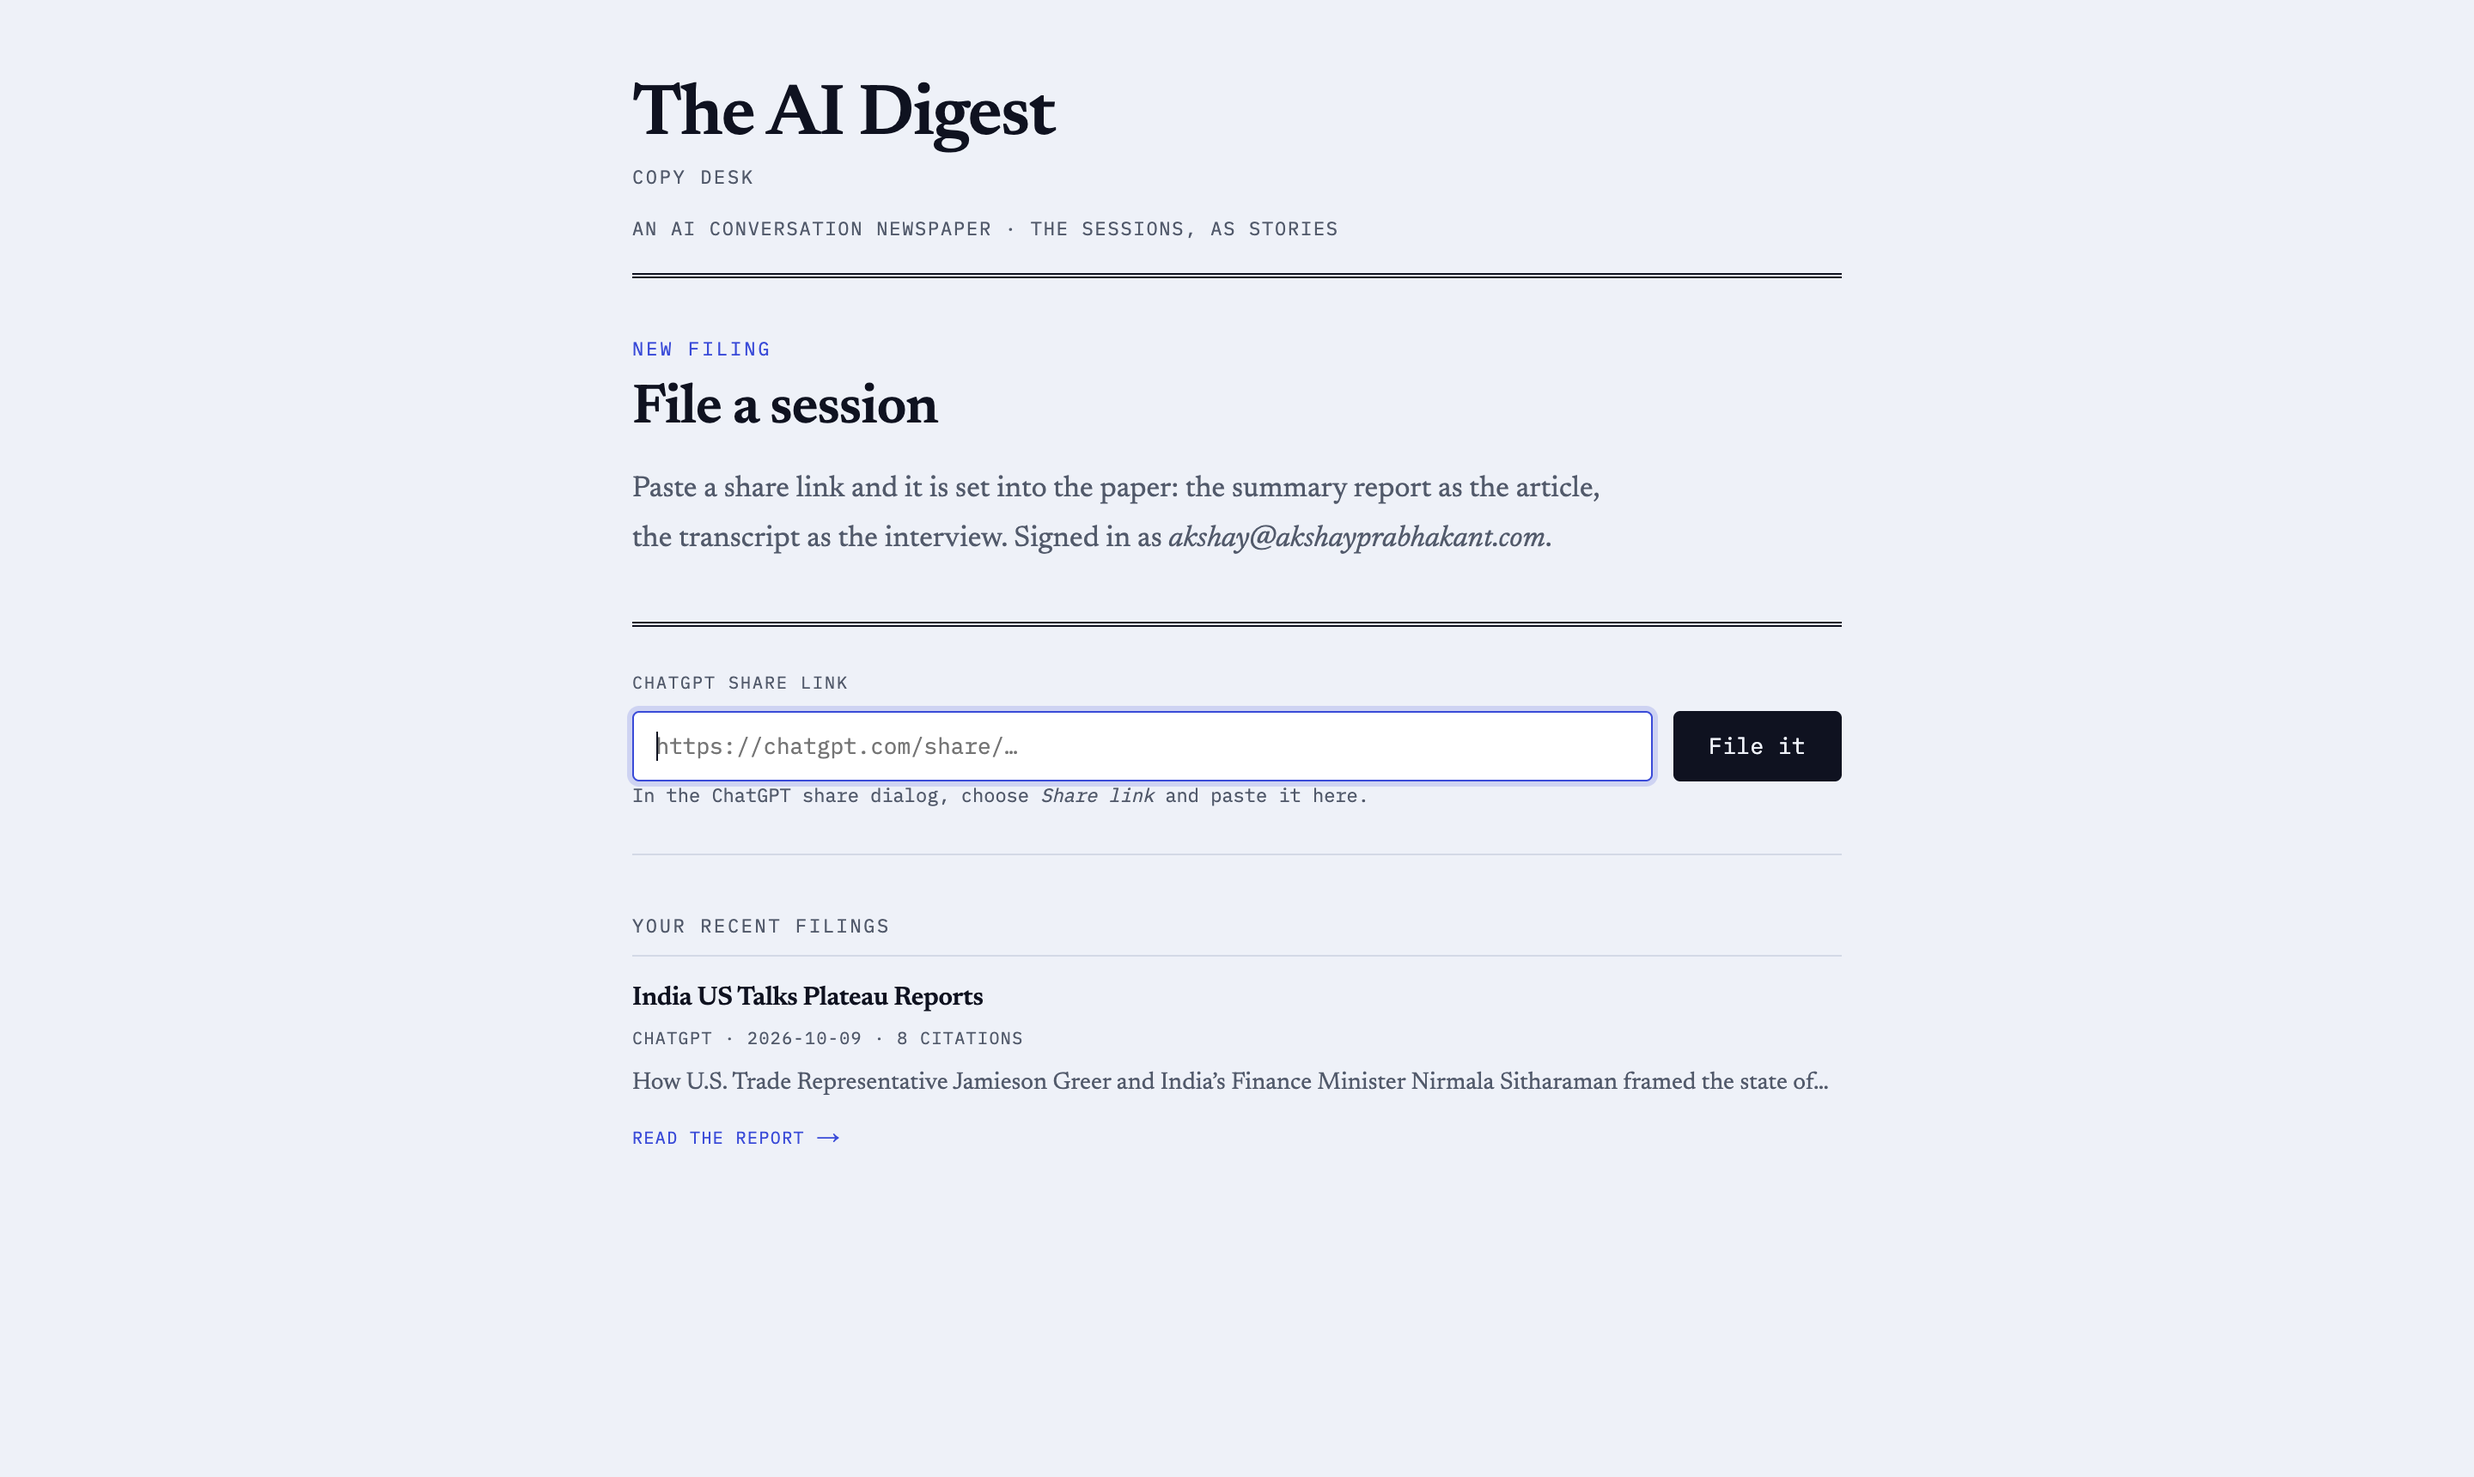
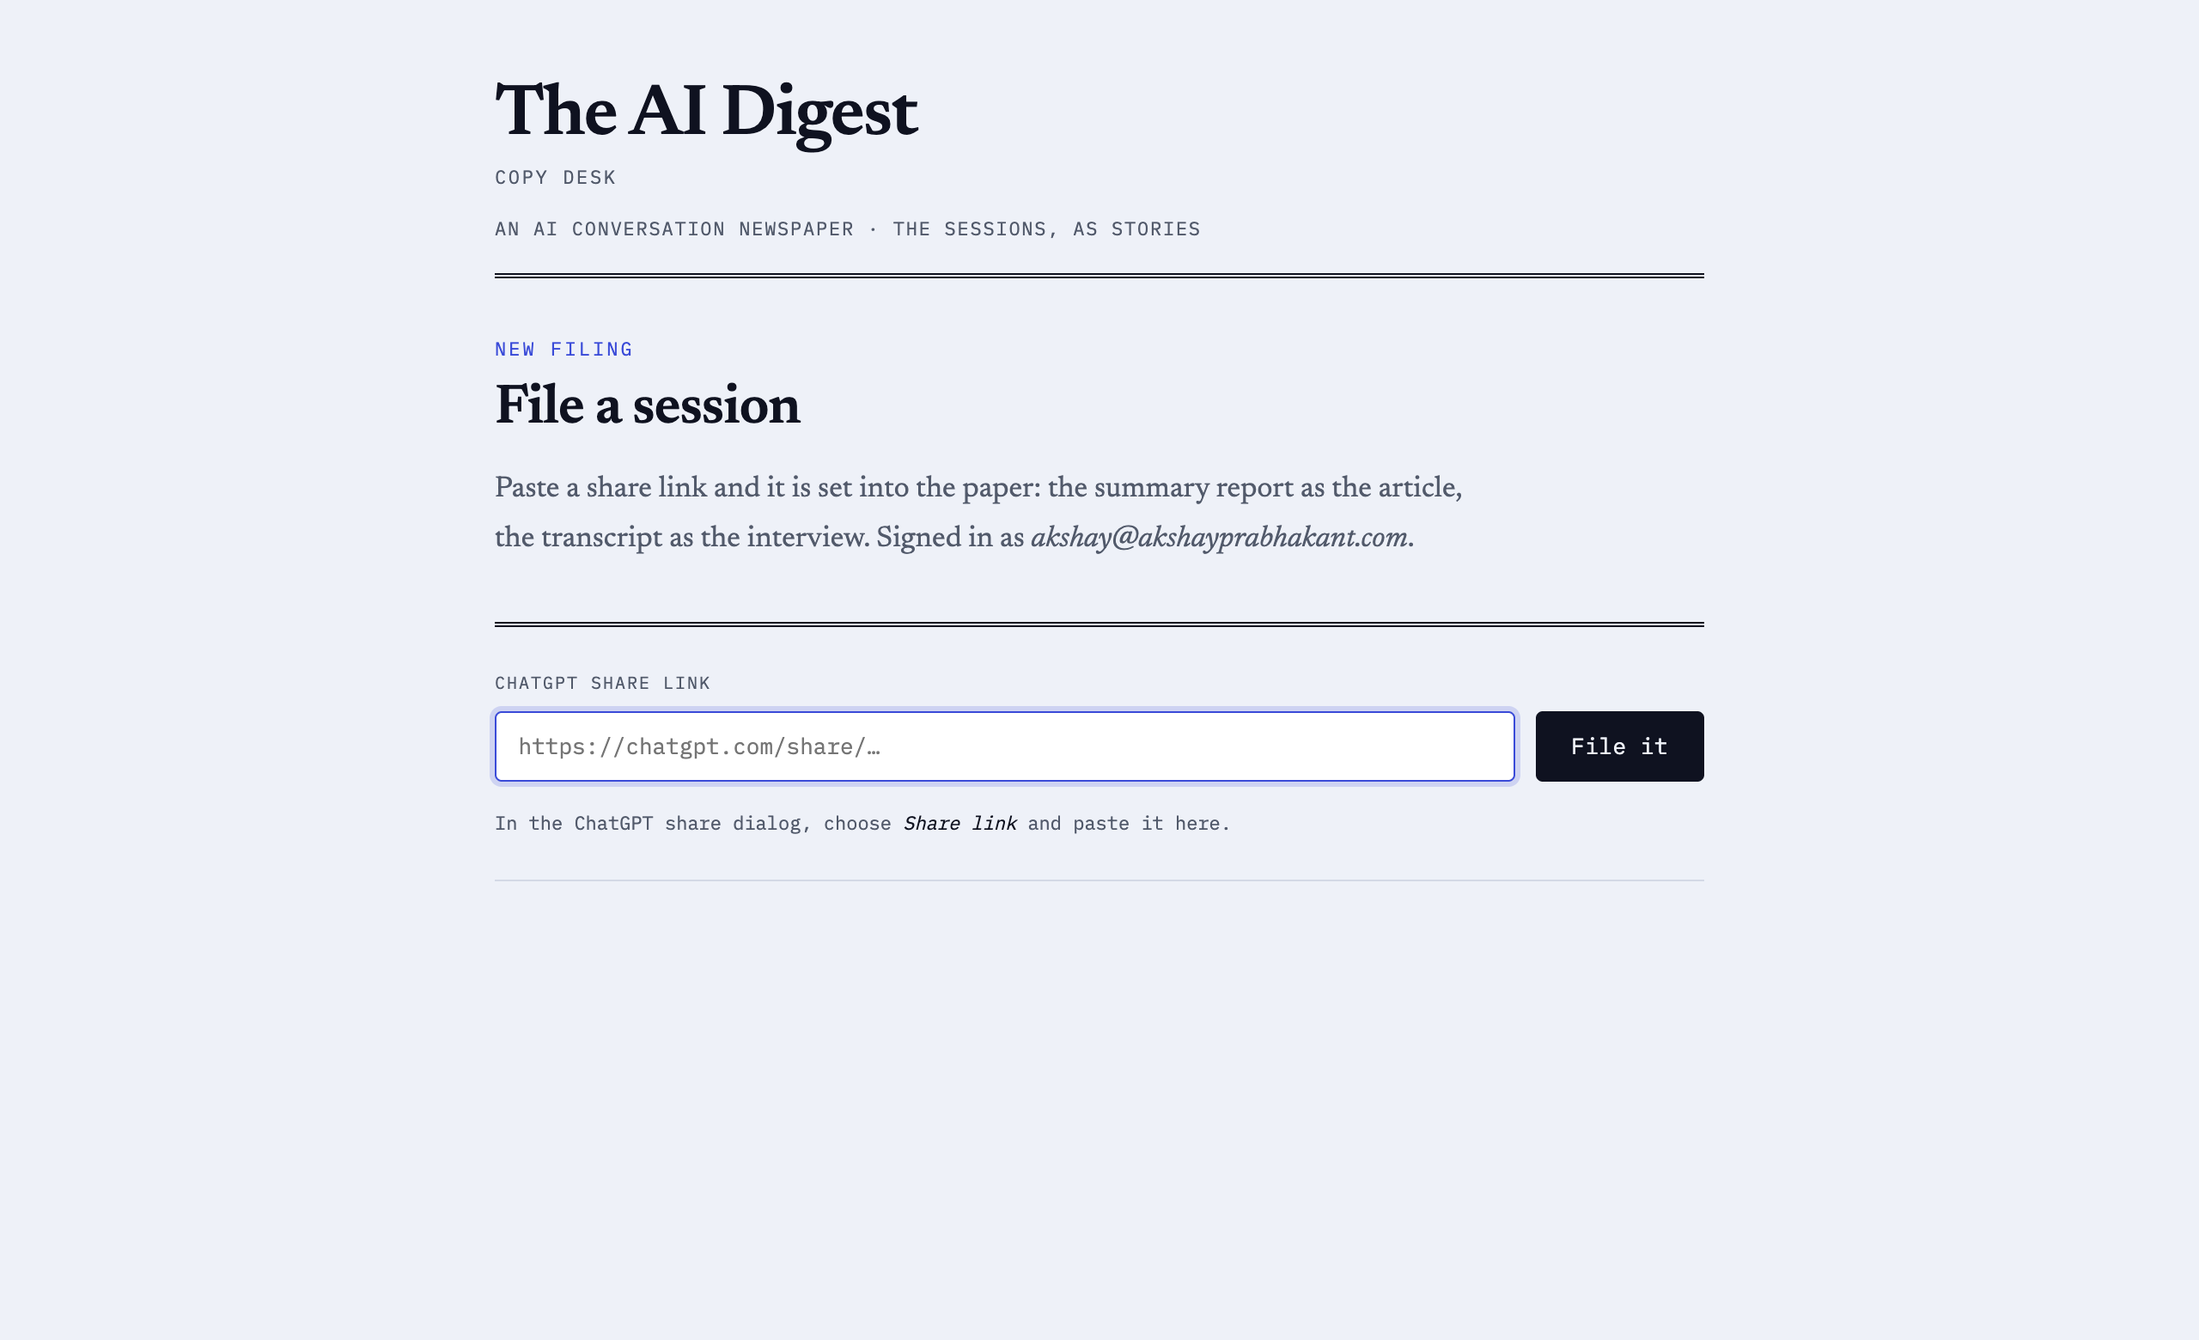
Give the filing hint room, and make the desk one job again
Two things the desk got wrong, both visible on render rather than in code.

The helper hint sat flush against the input's bottom border. The cause was a
class mismatch that a code read would not have flagged as a bug: the hint and
the result message are the same slot, but the hint rendered as `.fine` (no top
margin) while a result rendered as `.file-msg` (margin-top). So the text was
welded to the border, and the spacing jumped the instant a filing succeeded.
Both states now render one element with one class, so the gap is 16px before
and after — asserted in the browser, not eyeballed.

The "your recent filings" list is gone. It turned a single-purpose page into a
dashboard: the story it listed is already in the edition, one click away on the
front page, which `archive:updated` refreshes. CopyDesk loses its filings state,
its listFilings call and its StoryLink import; the `.desk-sub` and
`.desk-filings` CSS goes with them, and `listFilings` is deleted from the API
client so nothing is left half-wired.

Note: `GET /api/filings` and `ConversationRepository.list_recent` are now
unused. Kept deliberately rather than deleted alongside a view change — they
are tested across all three repositories and are what would back a "your
filings" view if it returns. Say the word and they go; nothing else calls them.

Verified in the browser: the form files a real link end to end, the success
message lands in the same slot at the same 16px gap, and nothing follows the
[…]

Changed region(s): [[0.2188, 0.4615, 0.7812, 0.7385], [0.2188, 0.0308, 0.75, 0.4308]]

diff --git a/frontend/app/components/CopyDesk.tsx b/frontend/app/components/CopyDesk.tsx
@@ -1,11 +1,9 @@
 'use client';
 
-import { useCallback, useEffect, useState } from 'react';
+import { useEffect, useState } from 'react';
 import { useRouter } from 'next/navigation';
-import { ingestSession, isSignInRequired, listFilings, whoami } from '@/lib/api';
+import { ingestSession, isSignInRequired, whoami } from '@/lib/api';
 import { AFTER_SIGN_IN } from '@/lib/nav';
-import type { Session } from '@/types';
-import StoryLink from './StoryLink';
 
 /**
  * The copy desk: where a share link becomes a story in the paper.
@@ -15,25 +13,19 @@ import StoryLink from './StoryLink';
  * page is public while this is not.
  *
  * The page enforces its own gate rather than relying on the router, because
- * the gate is a *server* fact: `GET /api/filings` answers 401 to anyone without
+ * the gate is a *server* fact: `POST /api/ingest` answers 401 to anyone without
  * an identity. Bouncing to the sign-in screen (with `next` pointing back here)
  * is the friendly rendering of that same fact, not a substitute for it.
+ *
+ * One job, one page: the form. There was briefly a "your recent filings" list
+ * underneath, which made a single-purpose page into a dashboard — the filed
+ * story is already in the edition, one click away on the front page, and
+ * `archive:updated` refreshes it.
  */
 export default function CopyDesk() {
   const router = useRouter();
   const [email, setEmail] = useState<string | null>(null);
   const [checking, setChecking] = useState(true);
-  const [filings, setFilings] = useState<Session[]>([]);
-
-  const loadFilings = useCallback(async () => {
-    try {
-      setFilings(await listFilings());
-    } catch {
-      // A failed filings read must not hide the form — filing is the point of
-      // the page, and the form reports its own errors.
-      setFilings([]);
-    }
-  }, []);
 
   useEffect(() => {
     let cancelled = false;
@@ -46,7 +38,6 @@ export default function CopyDesk() {
         }
         setEmail(value);
         setChecking(false);
-        void loadFilings();
       })
       .catch(() => {
         if (!cancelled) {
@@ -56,7 +47,7 @@ export default function CopyDesk() {
     return () => {
       cancelled = true;
     };
-  }, [router, loadFilings]);
+  }, [router]);
 
   if (checking) return <p className="fine">Opening the copy desk…</p>;
 
@@ -73,26 +64,13 @@ export default function CopyDesk() {
         </p>
       </section>
 
-      <FileSession onFiled={loadFilings} />
-
-      {filings.length > 0 ? (
-        <section className="desk-filings">
-          <h2 className="desk-sub">Your recent filings</h2>
-          <ul>
-            {filings.map((session) => (
-              <li key={session.id}>
-                <StoryLink session={session} variant="flow" />
-              </li>
-            ))}
-          </ul>
-        </section>
-      ) : null}
+      <FileSession />
     </div>
   );
 }
 
 /** The filing form itself: one field, one button, one honest status line. */
-function FileSession({ onFiled }: { onFiled: () => void }) {
+function FileSession() {
   const [url, setUrl] = useState('');
   const [busy, setBusy] = useState(false);
   const [note, setNote] = useState<{ text: string; error: boolean } | null>(null);
@@ -108,7 +86,8 @@ function FileSession({ onFiled }: { onFiled: () => void }) {
         error: false,
       });
       setUrl('');
-      onFiled();
+      // Tells the front page (another tab included) to re-read the edition.
+      window.dispatchEvent(new Event('archive:updated'));
     } catch (error) {
       if (isSignInRequired(error)) {
         // The session expired between opening the desk and filing. Access
@@ -126,6 +105,10 @@ function FileSession({ onFiled }: { onFiled: () => void }) {
     }
   }
 
+  // Both states render the SAME element with the same class. They used to
+  // differ — the hint took `.fine` (no top margin) and the result took
+  // `.file-msg` — which both left the hint flush against the input's bottom
+  // border and made the spacing jump the moment you filed something.
   return (
     <form className="file-form" onSubmit={submit}>
       <label htmlFor="share-url">ChatGPT share link</label>
@@ -143,13 +126,15 @@ function FileSession({ onFiled }: { onFiled: () => void }) {
           {busy ? 'Filing…' : 'File it'}
         </button>
       </div>
-      {note ? (
-        <p className={note.error ? 'file-msg error' : 'file-msg'}>{note.text}</p>
-      ) : (
-        <p className="fine">
-          In the ChatGPT share dialog, choose <em>Share link</em> and paste it here.
-        </p>
-      )}
+      <p className={note?.error ? 'file-msg error' : 'file-msg'} role="status">
+        {note ? (
+          note.text
+        ) : (
+          <>
+            In the ChatGPT share dialog, choose <em>Share link</em> and paste it here.
+          </>
+        )}
+      </p>
     </form>
   );
 }

diff --git a/frontend/app/globals.css b/frontend/app/globals.css
@@ -218,30 +218,20 @@ body {
   font-family: var(--mono);
   font-size: 0.6875rem;
   line-height: 1.5;
-  margin-top: var(--s3);
+  /* One rule for both the helper hint and the result message, because they are
+     the same slot. Sized to clear the input's bottom border rather than sit on
+     it, and fixed so the spacing does not jump when a message replaces it. */
+  margin-top: var(--s4);
   color: var(--muted);
+}
+
+.file-msg em {
+  font-style: italic;
+  color: var(--ink);
 }
 
 .file-msg.error {
   color: #b00020;
-}
-
-.desk-sub {
-  font-family: var(--mono);
-  font-size: 0.6875rem;
-  font-weight: 400;
-  letter-spacing: 0.12em;
-  text-transform: uppercase;
-  color: var(--muted);
-  border-bottom: 1px solid var(--rule);
-  padding-bottom: var(--s2);
-  margin-bottom: var(--s4);
-}
-
-.desk-filings ul {
-  list-style: none;
-  padding: 0;
-  margin: 0;
 }
 
 /* ── typographic primitives ────────────────────────── */

diff --git a/frontend/lib/api.ts b/frontend/lib/api.ts
@@ -52,15 +52,10 @@ export async function whoami(): Promise<string | null> {
  * The public edition — every filed story, from every filer.
  *
  * No identity required: the front page is a newspaper, so it reads the same for
- * everyone. Ownership is provenance (the credit line), not a filter.
+ * everyone. Ownership is provenance (internal), not a filter.
  */
 export function listSessions(): Promise<Session[]> {
   return request<SessionListResponse>('/api/sessions').then((d) => d.sessions);
-}
-
-/** What *you* filed. 401s when signed out — this is the copy desk's own read. */
-export function listFilings(): Promise<Session[]> {
-  return request<SessionListResponse>('/api/filings').then((d) => d.sessions);
 }
 
 /** A single story, public by permalink: no sign-in required. */

diff --git a/README.md b/README.md
@@ -19,9 +19,9 @@ read.
 ### The copy desk — `/chat-archives/desk`
 
 Where a share link becomes a story. Reached by signing in, and gated: the
-filing endpoint is the only write in the product. It also shows your own recent
-filings, which is what the `owner_email` column is still for — and the one place
-your address is shown back to you, on a page that requires signing in.
+filing endpoint is the only write in the product. One job, one page — the form,
+and nothing else. It is also the one place your address is shown back to you,
+on a page that requires signing in.
 
 ![The copy desk](docs/screenshots/08-copy-desk.png)
 
